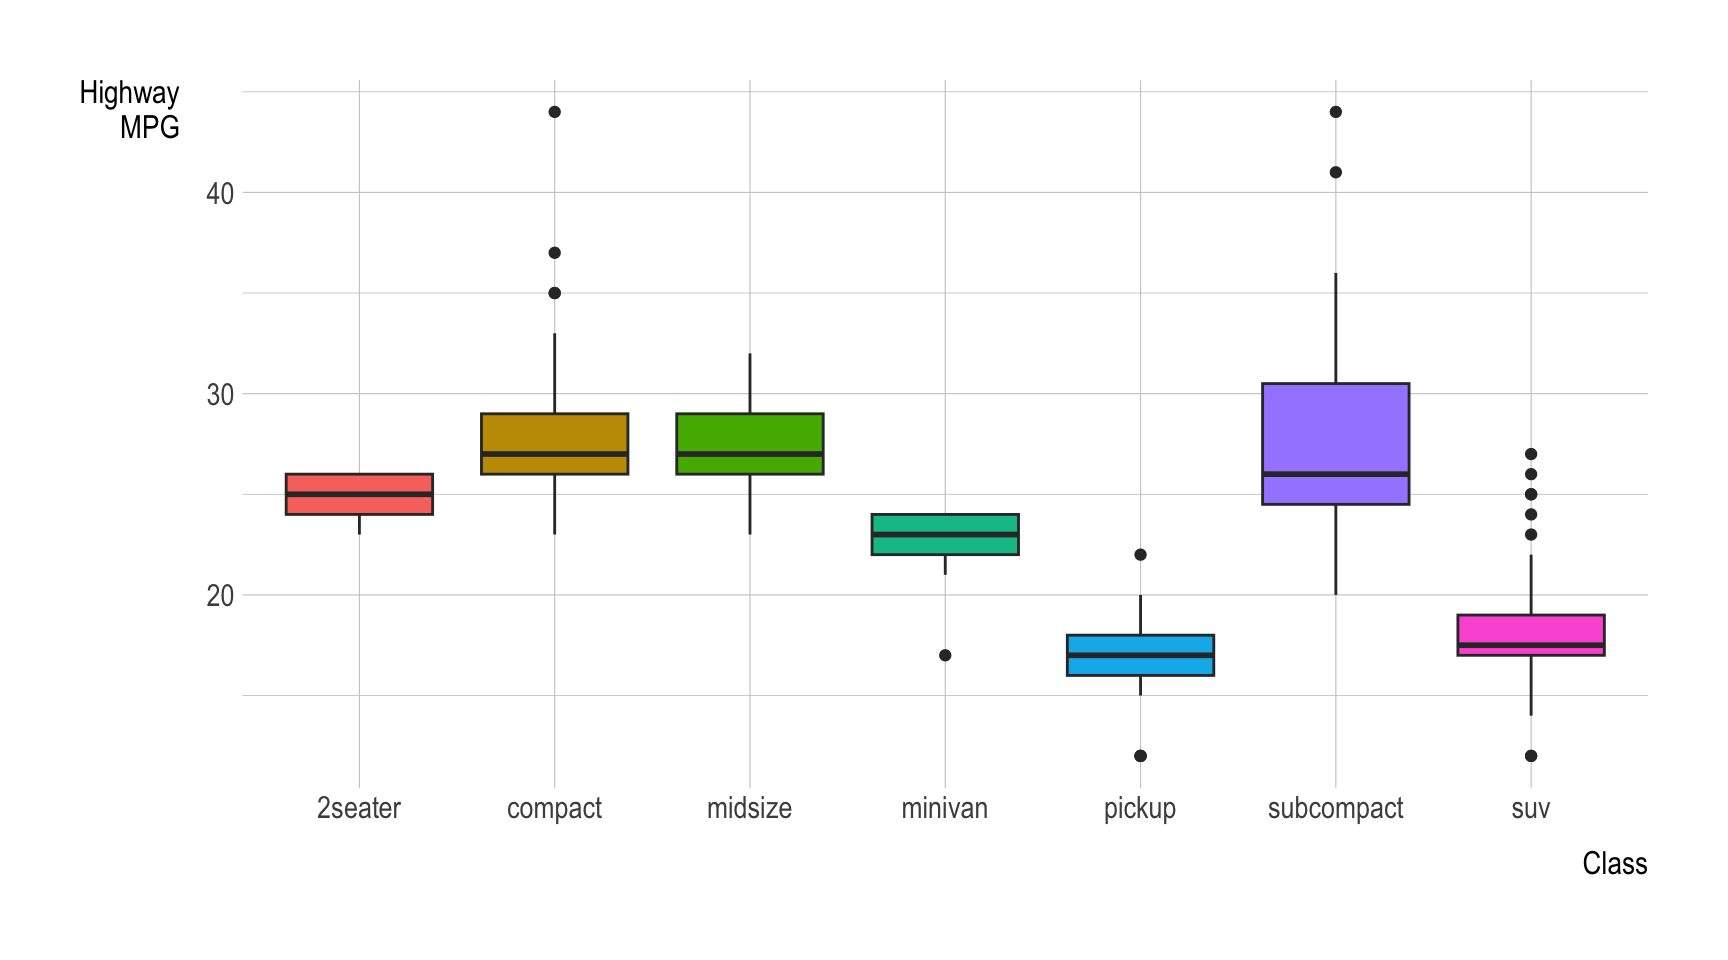
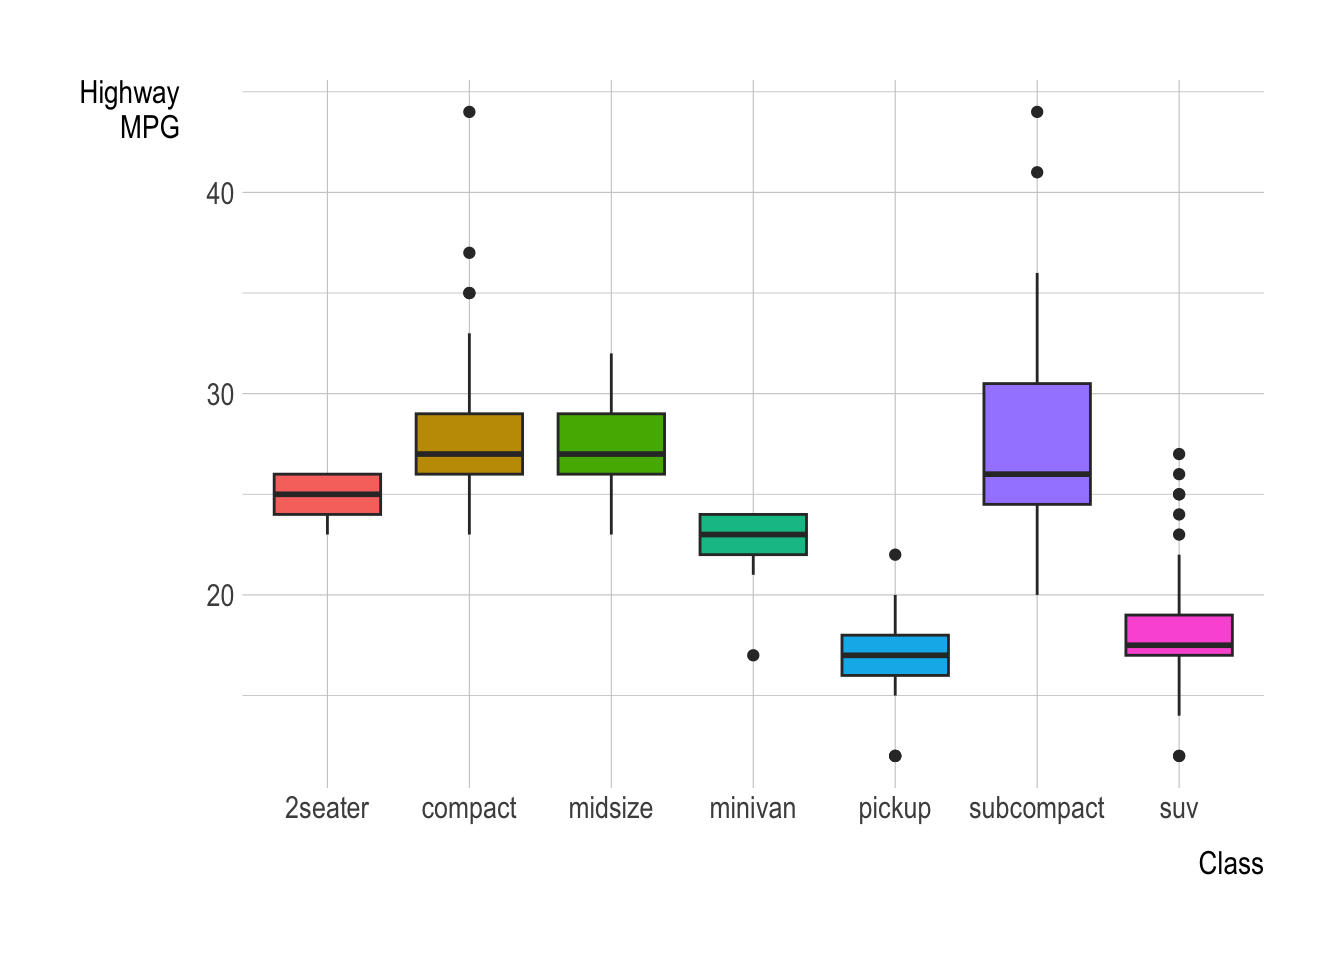
my new website

diff --git a/project.html b/project.html
@@ -6,13 +6,8 @@
 
 <meta name="viewport" content="width=device-width, initial-scale=1.0, user-scalable=yes">
 
-<meta name="author" content="Name 1">
-<meta name="author" content="Name 2">
-<meta name="author" content="Name 3">
-<meta name="author" content="Name 4">
-<meta name="author" content="Name 5">
 
-<title>Jacob Knapp - DANL Project</title>
+<title>Jacob Knapp – project</title>
 <style>
 code{white-space: pre-wrap;}
 span.smallcaps{font-variant: small-caps;}
@@ -106,7 +101,7 @@ pre > code.sourceCode > span > a:first-child::before { text-decoration: underlin
 <link rel="stylesheet" href="styles.css">
 </head>
 
-<body class="nav-fixed">
+<body class="nav-fixed fullcontent">
 
 <div id="quarto-search-results"></div>
   <header id="quarto-header" class="headroom fixed-top">
@@ -147,54 +142,15 @@ pre > code.sourceCode > span > a:first-child::before { text-decoration: underlin
 <div id="quarto-content" class="quarto-container page-columns page-rows-contents page-layout-article page-navbar">
 <!-- sidebar -->
 <!-- margin-sidebar -->
-    <div id="quarto-margin-sidebar" class="sidebar margin-sidebar">
-        <nav id="TOC" role="doc-toc" class="toc-active">
-    <h2 id="toc-title">Table of Contents</h2>
-   
-  <ul class="collapse">
-  <li><a href="#introduction" id="toc-introduction" class="nav-link active" data-scroll-target="#introduction"><span class="header-section-number">1</span> Introduction</a></li>
-  <li><a href="#data" id="toc-data" class="nav-link" data-scroll-target="#data"><span class="header-section-number">2</span> Data</a>
-  <ul class="collapse">
-  <li><a href="#summary-statistics" id="toc-summary-statistics" class="nav-link" data-scroll-target="#summary-statistics"><span class="header-section-number">2.1</span> Summary Statistics</a></li>
-  <li><a href="#mpg-and-a-type-of-cars" id="toc-mpg-and-a-type-of-cars" class="nav-link" data-scroll-target="#mpg-and-a-type-of-cars"><span class="header-section-number">2.2</span> MPG and a Type of Cars</a></li>
-  </ul></li>
-  </ul>
-</nav>
-    </div>
+    
 <!-- main -->
 <main class="content" id="quarto-document-content">
 
-<header id="title-block-header" class="quarto-title-block default">
-<div class="quarto-title">
-<h1 class="title">DANL Project</h1>
-<p class="subtitle lead">Data-Driven Mastery: Unlocking Business Potential</p>
-</div>
 
 
-
-<div class="quarto-title-meta">
-
-    <div>
-    <div class="quarto-title-meta-heading">Authors</div>
-    <div class="quarto-title-meta-contents">
-             <p>Name 1 </p>
-             <p>Name 2 </p>
-             <p>Name 3 </p>
-             <p>Name 4 </p>
-             <p>Name 5 </p>
-          </div>
-  </div>
-    
-  
-    
-  </div>
-  
-
-</header>
-
-<section id="introduction" class="level1" data-number="1">
-<h1 data-number="1"><span class="header-section-number">1</span> Introduction</h1>
-<p>About this project <span class="emoji" data-emoji="clap">👏</span></p>
+<section id="introduction" class="level1">
+<h1>Introduction</h1>
+<p>About this project :clap:</p>
 <div class="cell">
 <div class="sourceCode cell-code" id="cb1"><pre class="sourceCode r code-with-copy"><code class="sourceCode r"><span id="cb1-1"><a href="#cb1-1" aria-hidden="true" tabindex="-1"></a><span class="dv">1</span> <span class="sc">+</span> <span class="dv">1</span></span></code><button title="Copy to Clipboard" class="code-copy-button"><i class="bi"></i></button></pre></div>
 <div class="cell-output cell-output-stdout">
@@ -202,11 +158,11 @@ pre > code.sourceCode > span > a:first-child::before { text-decoration: underlin
 </div>
 </div>
 </section>
-<section id="data" class="level1" data-number="2">
-<h1 data-number="2"><span class="header-section-number">2</span> Data</h1>
-<p>The data.frame <code>mpg</code> contains a subset of the fuel economy data that the EPA makes available on <a href="https://fueleconomy.gov/">https://fueleconomy.gov/</a>. It contains only models which had a new release every year between 1999 and 2008 - this was used as a proxy for the popularity of the car. <span class="emoji" data-emoji="oncoming_automobile">🚘</span></p>
-<section id="summary-statistics" class="level2" data-number="2.1">
-<h2 data-number="2.1" class="anchored" data-anchor-id="summary-statistics"><span class="header-section-number">2.1</span> Summary Statistics</h2>
+<section id="data" class="level1">
+<h1>Data</h1>
+<p>The data.frame <code>mpg</code> contains a subset of the fuel economy data that the EPA makes available on <a href="https://fueleconomy.gov/">https://fueleconomy.gov/</a>. It contains only models which had a new release every year between 1999 and 2008 - this was used as a proxy for the popularity of the car. :oncoming_automobile:</p>
+<section id="summary-statistics" class="level2">
+<h2 class="anchored" data-anchor-id="summary-statistics">Summary Statistics</h2>
 <div class="cell">
 <div class="sourceCode cell-code" id="cb3"><pre class="sourceCode r code-with-copy"><code class="sourceCode r"><span id="cb3-1"><a href="#cb3-1" aria-hidden="true" tabindex="-1"></a>mpg <span class="ot">&lt;-</span> ggplot2<span class="sc">::</span>mpg</span></code><button title="Copy to Clipboard" class="code-copy-button"><i class="bi"></i></button></pre></div>
 </div>
@@ -427,16 +383,16 @@ pre > code.sourceCode > span > a:first-child::before { text-decoration: underlin
 </div>
 </div>
 </section>
-<section id="mpg-and-a-type-of-cars" class="level2" data-number="2.2">
-<h2 data-number="2.2" class="anchored" data-anchor-id="mpg-and-a-type-of-cars"><span class="header-section-number">2.2</span> MPG and a Type of Cars</h2>
-<p>The following boxplot shows how the distribution of highway MPG (<code>hwy</code>) varies by a type of cars (<code>class</code>) <span class="emoji" data-emoji="blue_car">🚙</span> <span class="emoji" data-emoji="truck">🚚</span> <span class="emoji" data-emoji="minibus">🚐</span>.</p>
+<section id="mpg-and-a-type-of-cars" class="level2">
+<h2 class="anchored" data-anchor-id="mpg-and-a-type-of-cars">MPG and a Type of Cars</h2>
+<p>The following boxplot shows how the distribution of highway MPG (<code>hwy</code>) varies by a type of cars (<code>class</code>) :blue_car: :truck: :minibus:.</p>
 <div class="cell">
 <div class="sourceCode cell-code" id="cb5"><pre class="sourceCode r code-with-copy"><code class="sourceCode r"><span id="cb5-1"><a href="#cb5-1" aria-hidden="true" tabindex="-1"></a><span class="fu">ggplot</span>(<span class="at">data =</span> mpg) <span class="sc">+</span></span>
 <span id="cb5-2"><a href="#cb5-2" aria-hidden="true" tabindex="-1"></a>  <span class="fu">geom_boxplot</span>(<span class="fu">aes</span>(<span class="at">x =</span> class, <span class="at">y =</span> hwy, <span class="at">fill =</span> class),</span>
 <span id="cb5-3"><a href="#cb5-3" aria-hidden="true" tabindex="-1"></a>               <span class="at">show.legend =</span> F) <span class="sc">+</span></span>
 <span id="cb5-4"><a href="#cb5-4" aria-hidden="true" tabindex="-1"></a>  <span class="fu">labs</span>(<span class="at">x =</span> <span class="st">"Class"</span>, <span class="at">y =</span> <span class="st">"Highway</span><span class="sc">\n</span><span class="st">MPG"</span>) </span></code><button title="Copy to Clipboard" class="code-copy-button"><i class="bi"></i></button></pre></div>
 <div class="cell-output-display">
-<p><img src="project_files/figure-html/unnamed-chunk-5-1.png" class="img-fluid" width="864"></p>
+<p><img src="project_files/figure-html/unnamed-chunk-5-1.png" class="img-fluid" width="672"></p>
 </div>
 </div>
 
